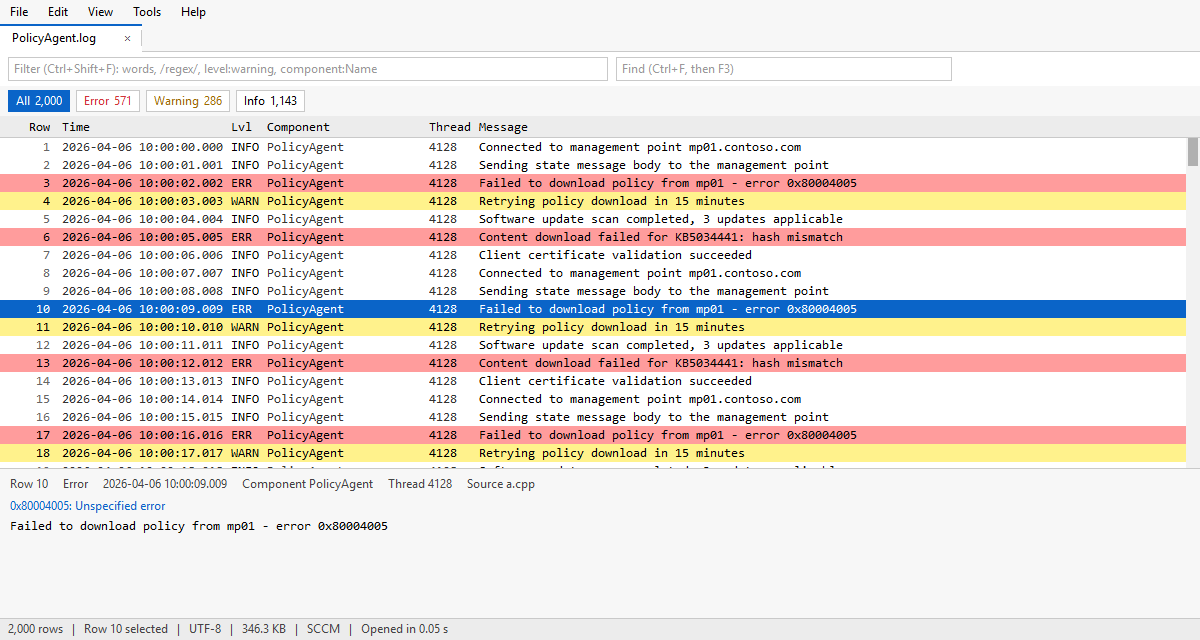
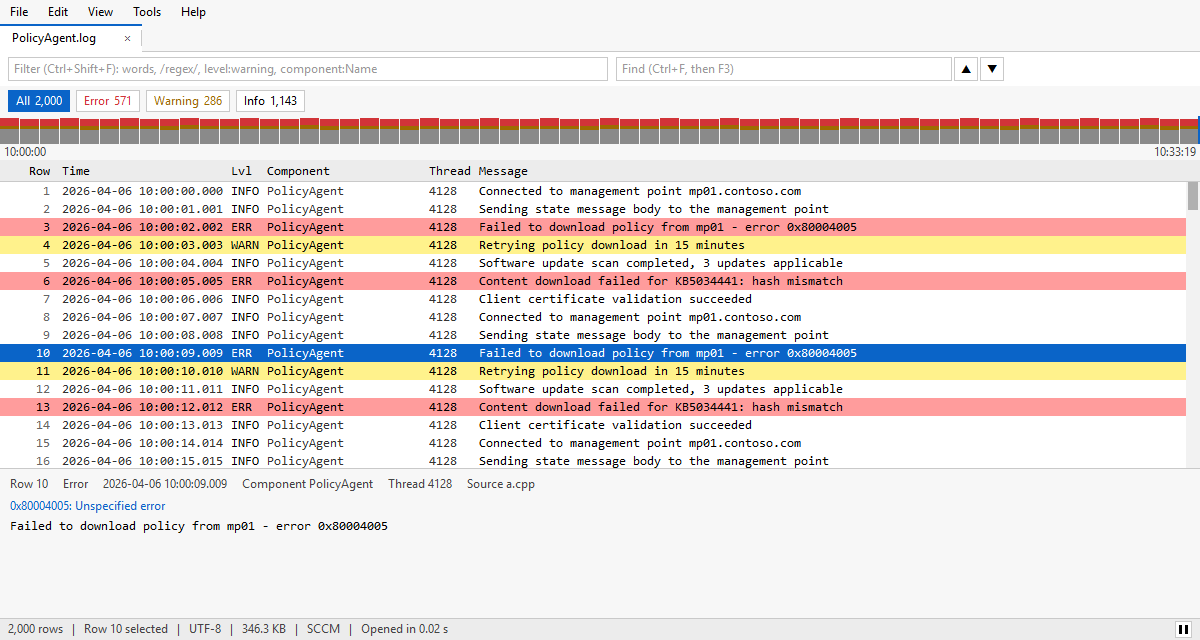
Bring the docs, screenshots and skill up to date after the formats
A sweep of every Markdown file after the format and viewer changes
since 0.11.0 found most of it already current, and these stale:

- The README's screenshots were from 0.9.0, without the find buttons,
  the pause button or, in Classic, the histogram. They're drawn again
  by the snapshot test's final frames, with only its sample log.
- The skill traceview setup writes still told agents it was for
  ConfigMgr client, Intune, Windows Update, CBS, DISM and setup logs.
  Agents choose a skill by that description, so it now names site
  server, Windows Installer, PowerShell transcript, IIS and Windows
  Firewall logs too. It stays within the Agent Skills limits.
- ARCHITECTURE's crate map now says parse.rs finds a log's hint, and
  its time zone question mentions merging IIS's UTC logs.

diff --git a/crates/traceview/src/setup.rs b/crates/traceview/src/setup.rs
@@ -21,10 +21,11 @@ const SKILL_NAME: &str = "traceview";
 /// delete it, but never one someone else wrote.
 const MARK: &str = "written-by: traceview setup";
 /// What agents read up front to decide whether the skill fits a task.
-const DESCRIPTION: &str = "Investigate Windows logs, such as ConfigMgr (SCCM) client logs, \
-    Intune Management Extension, Windows Update, CBS, DISM and setup logs, with the TraceView \
-    command line. Use when asked why an install, update, deployment or policy failed, or to find \
-    errors in .log or .lo_ files or a folder of logs.";
+const DESCRIPTION: &str = "Investigate Windows logs, such as ConfigMgr (SCCM) client and site \
+    server logs, Intune Management Extension, Windows Update, CBS, DISM, setup, Windows Installer \
+    (MSI), PowerShell transcript, IIS and Windows Firewall logs, with the TraceView command line. \
+    Use when asked why an install, update, deployment or policy failed, or to find errors in .log \
+    or .lo_ files or a folder of logs.";
 const UNDO: &str =
     "To undo it, choose Tools > Remove AI agent setup, or run `traceview setup --remove`.";
 

diff --git a/docs/ARCHITECTURE.md b/docs/ARCHITECTURE.md
@@ -20,7 +20,8 @@ crates/
     encoding.rs   UTF-8, UTF-16 and Windows-1252 handling
     level.rs      severity levels and the keyword fallback
     time.rs       timestamp parsing
-    parse.rs      splits one row into fields, for every supported format
+    parse.rs      splits one row into fields, for every supported format, and finds the hint
+                  some plain formats give in their first lines, such as a #Fields line
     custom.rs     formats defined by a regex, and choosing one for a file
     index.rs      parallel scan into compact per-row arrays
     cache.rs      on-disk index cache
@@ -331,6 +332,6 @@ The goal is one engine with several front ends in the same EXE:
 - **The GUI** is designed in [GUI-DESIGN.md](GUI-DESIGN.md), including how one EXE serves both the CLI and GUI.
 - **A real no-GPU VM and slow RDP links** are still untested.
 - **ConfigMgr and Windows Update error text away from ConfigMgr.** CMTrace's text covers clients and site servers. A PC with neither, such as one that logs were copied to, gets it only from a copy of `CMTrace.exe` put in TraceView's folder, and a console's `srsresources.dll` hasn't been tested.
-- **Time zones,** which merging files from different zones will need.
+- **Time zones,** which merging files from different zones will need, as will merging IIS logs, which are in UTC, with local ones.
 - **Index memory.** 10 bytes per row is simple, but timestamps could be packed further if large logs need it.
 - **Auto-updates,** planned for the next release. TraceView never connects to the internet today, as the README promises, so this needs: a clear way to turn it off, including for managed and offline PCs, and the README's privacy section changed to say so; a download used only once it's signed by the same publisher as the running EXE and matches `SHA256SUMS.txt`; only full releases, and never a downgrade; only the copy `traceview setup` installed updated, swapped in by renaming, as Windows locks a running EXE; and never an update in the middle of a command an agent is running.

diff --git a/CHANGELOG.md b/CHANGELOG.md
@@ -34,6 +34,7 @@ Each release's changes, newest first. Versions follow [Semantic Versioning](http
 
 **AI agents**
 
+- The skill `traceview setup` writes tells agents it's for site server, Windows Installer, PowerShell transcript, IIS and Windows Firewall logs too, as agents choose a skill by its description. Run `traceview setup` again to update it.
 - `traceview setup` also adds TraceView's skill for GitHub Copilot, in `%USERPROFILE%\.copilot\skills\traceview`, when `%USERPROFILE%\.copilot` exists. `traceview setup --remove` takes it back.
 
 ## 0.11.0
